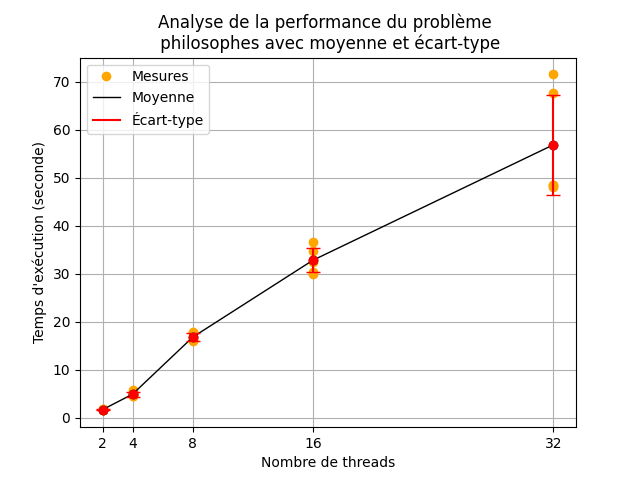
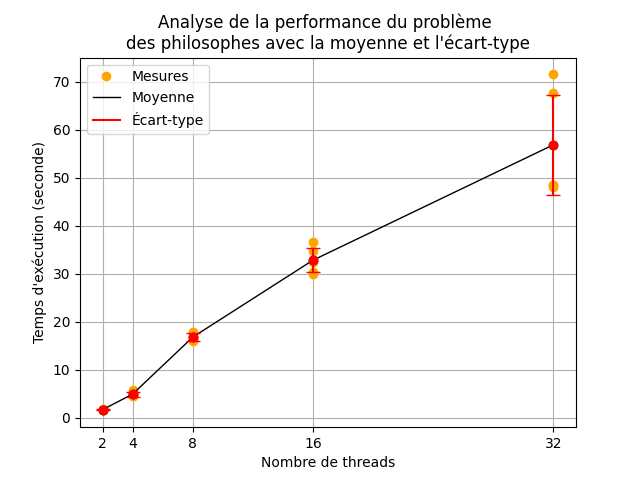
merge perf et writeread

Changed region(s): [[0.1875, 0.0625, 0.8438, 0.125]]

diff --git a/graph.py b/graph.py
@@ -45,15 +45,15 @@ for problem in ["philo", "prodcons", "writeread"]:
 
     title = ""
     if problem == 'philo':
-        title = 'philosophes'
+        title = '\ndes philosophes'
     elif problem == 'prodcons':
-        title = 'producteurs et consommateurs'
+        title = 'des producteurs \net des consommateurs'
     elif problem == 'writeread':
-        title = 'écrivains et lecteurs'
+        title = 'des écrivains \net des lecteurs'
     
     plt.xlabel("Nombre de threads")
     plt.ylabel("Temps d'exécution (seconde)")
-    plt.title(f"Analyse de la performance du problème \n {title} avec moyenne et écart-type")
+    plt.title(f"Analyse de la performance du problème {title} avec la moyenne et l'écart-type")
     plt.legend(handles=legend_elements)
     plt.grid(True)
     plt.xticks(nthreads, labels=nthreads)
